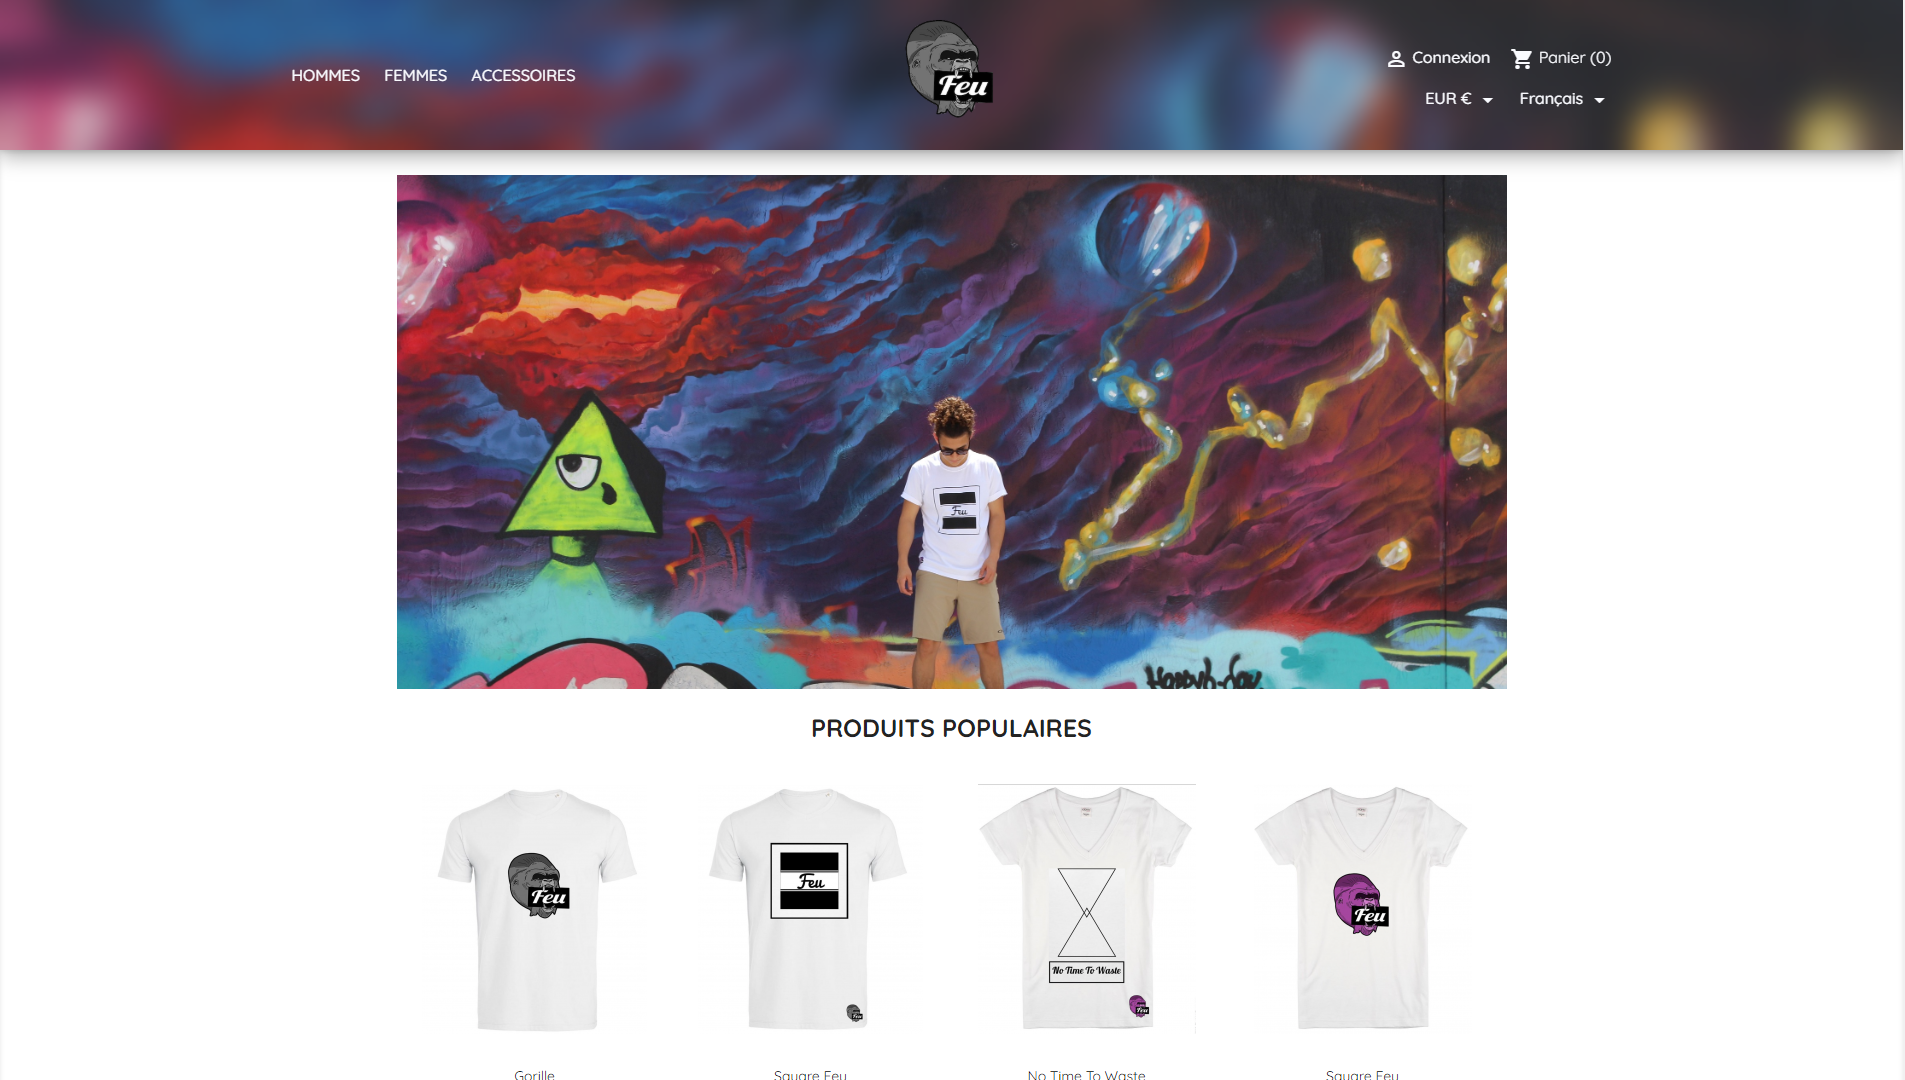
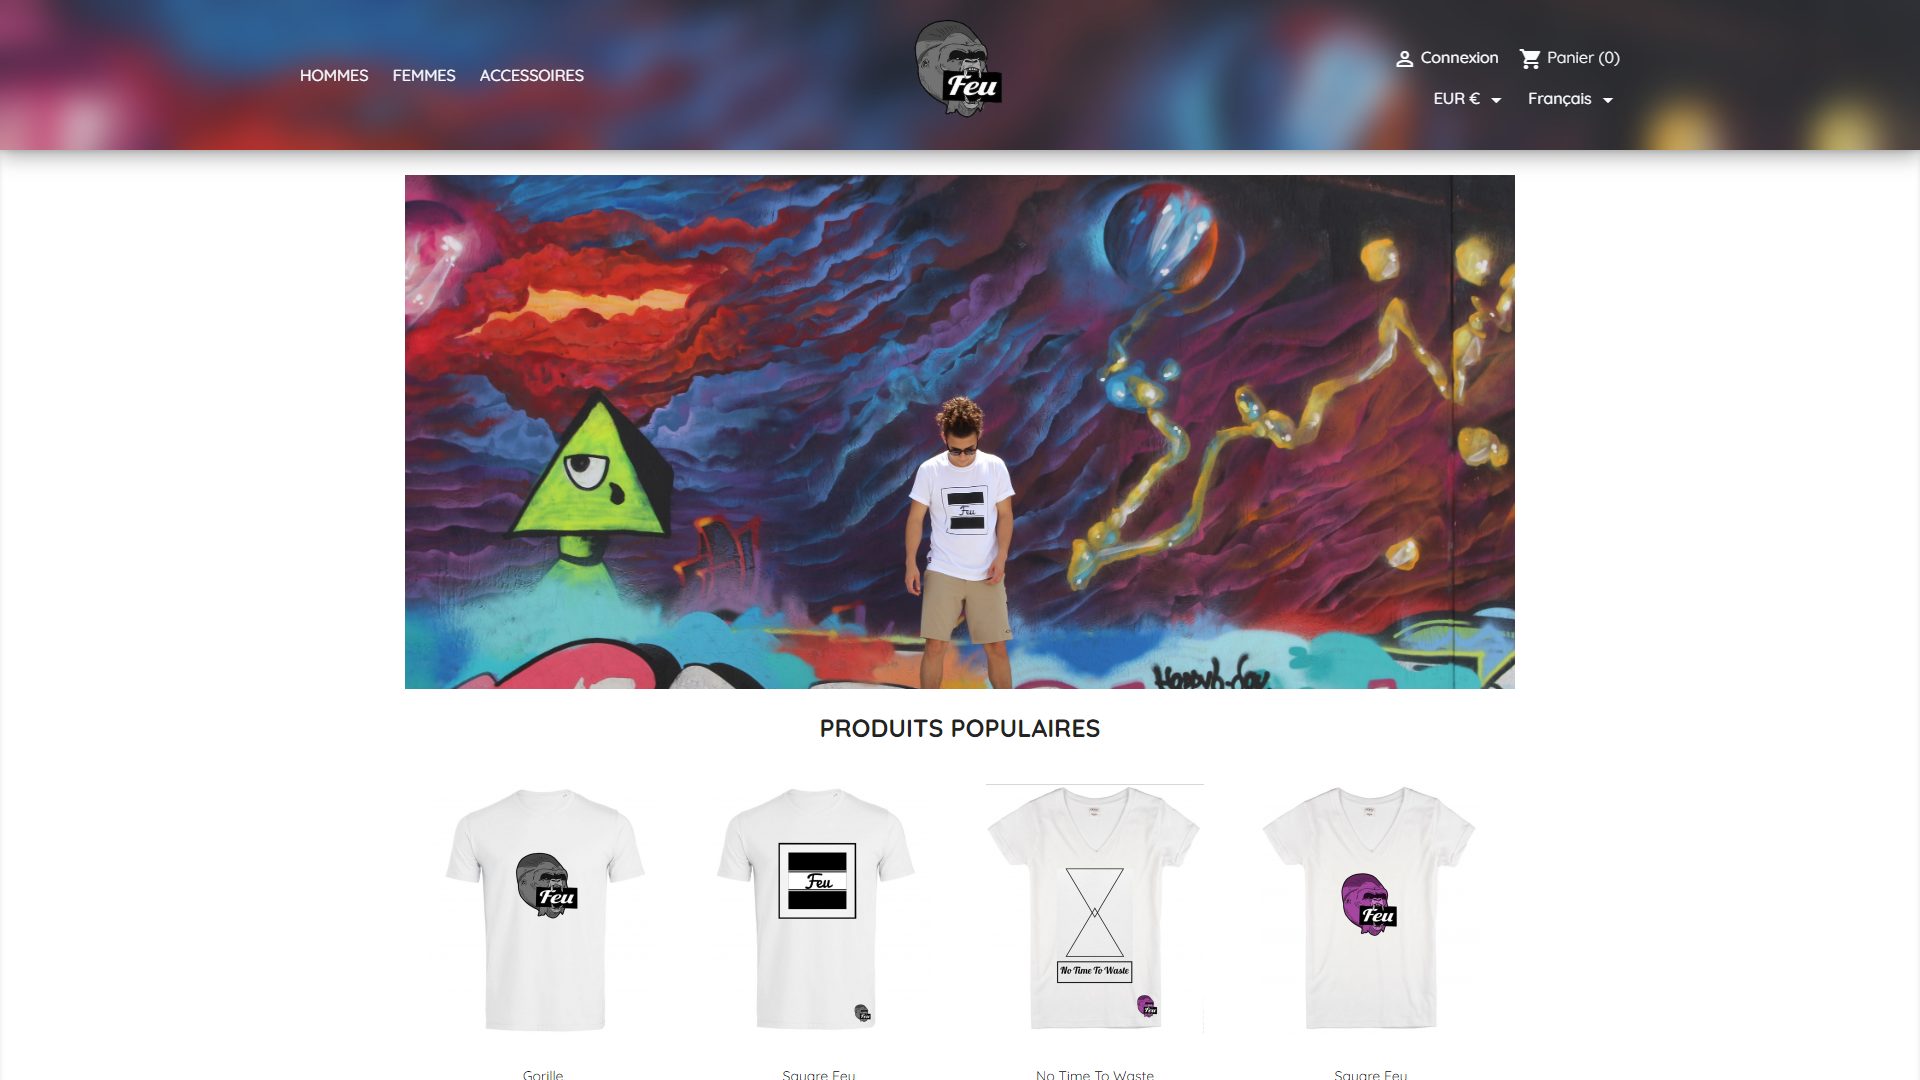
Slider Feu done

diff --git a/assets/sass/style.css b/assets/sass/style.css
@@ -340,15 +340,14 @@ body {
       body .body #imgModal .modal-content {
         animation-name: anim-introduction;
         animation-duration: 0.5s;
-        margin: 7rem auto auto auto;
-        width: 1000px;
-        height: 571px;
+        margin: 4rem auto auto auto;
+        width: 1300px;
         border: none;
         background: none; }
         body .body #imgModal .modal-content img {
           position: relative;
           border-radius: 5px;
-          height: 100%; }
+          width: 100%; }
         body .body #imgModal .modal-content .btn-close {
           position: absolute;
           right: 3%;
@@ -368,23 +367,20 @@ body {
           transition: 0.4s; }
         body .body #imgModal .modal-content .previous-slide {
           position: absolute;
-          left: 1%;
-          top: 50%;
-          transform: translate(0, -35%); }
+          left: 0;
+          top: 50%; }
         body .body #imgModal .modal-content .next-slide {
           position: absolute;
-          right: 1%;
-          top: 50%;
-          transform: translate(0%, -35%); }
+          right: 0;
+          top: 50%; }
         body .body #imgModal .modal-content .btn-slide {
-          padding: 0.5rem 1rem;
-          border-radius: 50%;
+          padding: 10rem 1.5rem;
+          border-radius: 0.5px;
           color: #0460D9;
           transition: 0.4s; }
         body .body #imgModal .modal-content .btn-slide:hover {
-          background-color: #0460D9;
-          opacity: 0.75;
-          color: #FFFFFF;
+          font-size: 20px;
+          cursor: pointer;
           transition: 0.4s; }
     body .body #contact {
       position: relative;

diff --git a/assets/sass/style.sass b/assets/sass/style.sass
@@ -394,15 +394,14 @@ body
       .modal-content
         animation-name: anim-introduction
         animation-duration: .5s
-        margin: 7rem auto auto auto
-        width: 1000px
-        height: 571px
+        margin: 4rem auto auto auto
+        width: 1300px
         border: none
         background: none
         img
           position: relative
           border-radius: 5px
-          height: 100%
+          width: 100%
         .btn-close
           position: absolute
           right: 3%
@@ -422,23 +421,20 @@ body
           transition: .4s
         .previous-slide
           position: absolute
-          left: 1%
+          left: 0
           top: 50%
-          transform: translate(0, -35%)
         .next-slide
           position: absolute
-          right: 1%
+          right: 0
           top: 50%
-          transform: translate(0%, -35%)
         .btn-slide
-          padding: .5rem 1rem
-          border-radius: 50%
+          padding: 10rem 1.5rem
+          border-radius: .5px
           color: $color1
           transition: .4s
         .btn-slide:hover
-          background-color: $color1
-          opacity: .75
-          color: #FFFFFF
+          font-size: 20px
+          cursor: pointer
           transition: .4s
 
     #contact

diff --git a/index.html b/index.html
@@ -250,15 +250,17 @@
 
 	<div id="imgModal" class="modal">
 		<div class="modal-content">
-			<img src="assets/img/feu/Home1.PNG" alt="homeFeu">
-            <div class="next-slide">
-                <a href="" class="btn-slide">
-                    <i class="fas fa-caret-right ml-1"></i>
+            <div class="img-content">
+                <img src="assets/img/feu/Home1.PNG" alt="homeFeu" id="imgSlide">
+            </div>
+            <div class="next-slide" onclick="ChangeSlide(1)">
+                <a id="nextImg" class="btn-slide">
+                    <i class="fas fa-chevron-right"></i>
                 </a>
             </div>
-            <div class="previous-slide">
-                <a href="" class="btn-slide">
-                    <i class="fas fa-caret-left mr-1"></i>
+            <div class="previous-slide" onclick="ChangeSlide(-1)">
+                <a id="previousImg" class="btn-slide">
+                    <i class="fas fa-chevron-left"></i>
                 </a>
             </div>
 			<span class="close btn-close">

diff --git a/assets/js/main.js b/assets/js/main.js
@@ -64,3 +64,33 @@ window.onclick = function(event) {
 		modal.style.display = "none";
 	}
 };
+
+/*
+* Slider inside popup
+*/
+let imgUrl = [
+                'assets\\img\\feu\\Home1.PNG',
+                'assets\\img\\feu\\Login.PNG',
+                'assets\\img\\feu\\Product.PNG',
+                'assets\\img\\feu\\Product2.PNG',
+                'assets\\img\\feu\\Signin.PNG'
+            ],
+    imgAlt = [
+                 'home page',
+                 'login page',
+                 'product page 1',
+                 'product page 2',
+                 'sign in page'
+             ],
+    imgTag = document.getElementById('imgSlide'),
+    numero = 0;
+
+function ChangeSlide(sens) {
+    numero = numero + sens;
+    if (numero < 0)
+        numero = imgUrl.length - 1;
+    if (numero > imgUrl.length - 1)
+        numero = 0;
+    imgTag.src = imgUrl[numero];
+    imgTag.alt = imgAlt[numero];
+}
